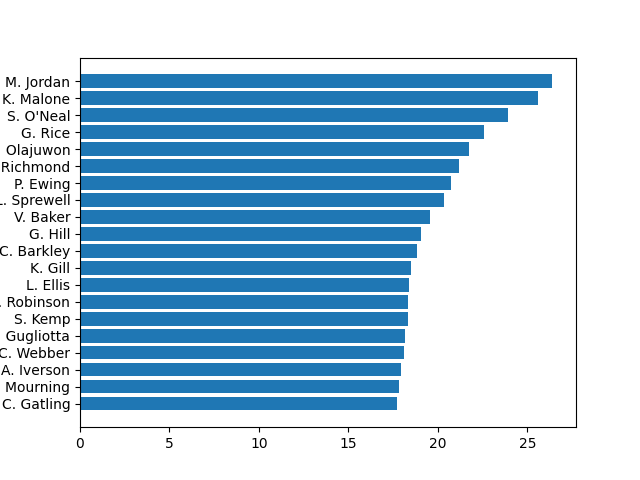
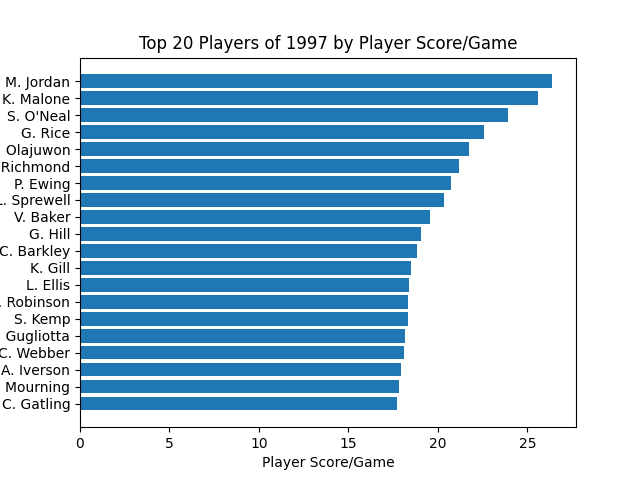
Added 2023 graph for funsies

Changed region(s): [[0.2188, 0.0625, 0.8125, 0.125], [0.4062, 0.9375, 0.625, 0.9688]]

diff --git a/game_performance.py b/game_performance.py
@@ -109,7 +109,7 @@ def game_performance(player, table):
     return total_score
 
 def test_performance():
-    first_table = pd.read_csv("data/pbp1997.csv")
+    first_table = pd.read_csv("data/pbp2023.csv")
     #print(first_table.shape)
     
     names = get_all_players(first_table)
@@ -137,6 +137,9 @@ def test_performance():
     first_20_scores = scores[-20:]
 
     plt.barh(first_20_names, first_20_scores)
+    plt.xlabel("Player Score/Game")
+    plt.ylabel("Player Name")
+    plt.title("Top 20 Players of 2023 by Player Score/Game")
     plt.show()
 
     #game_performance("S. Pippen", pippen)
